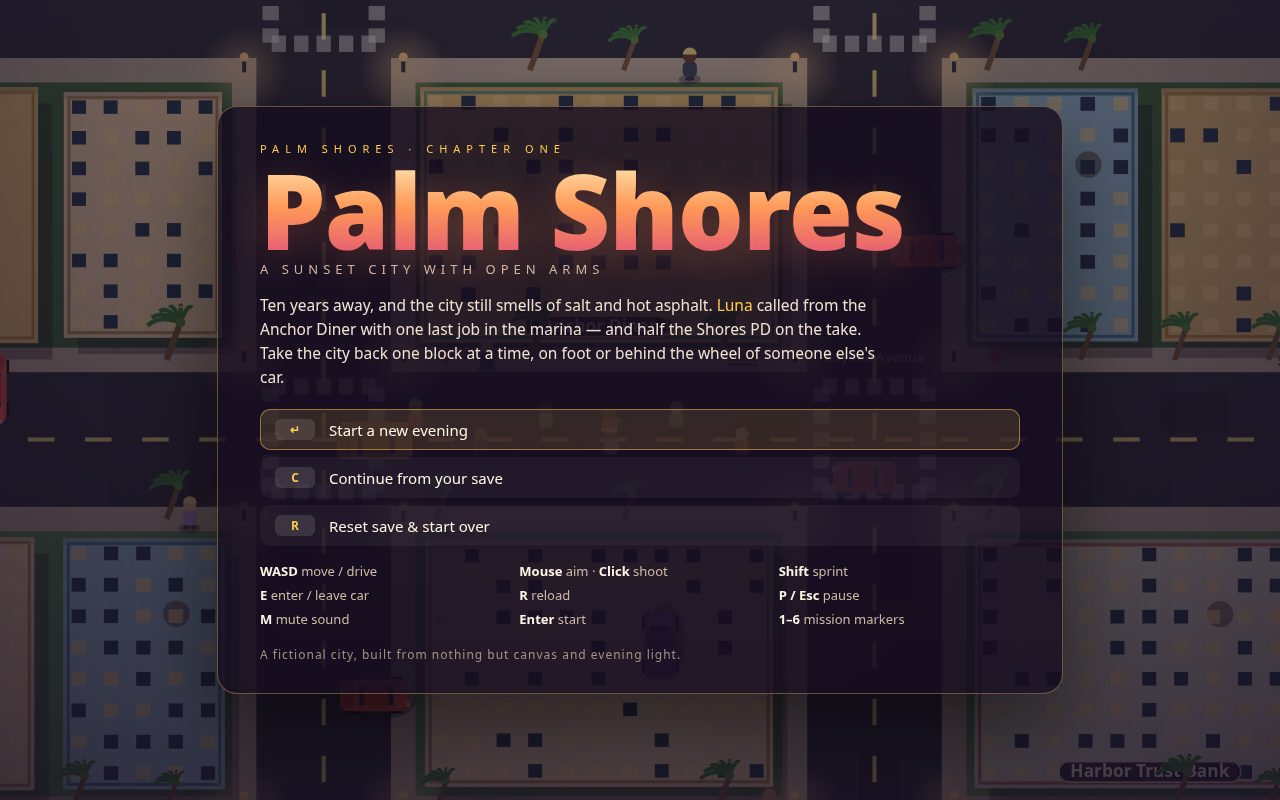
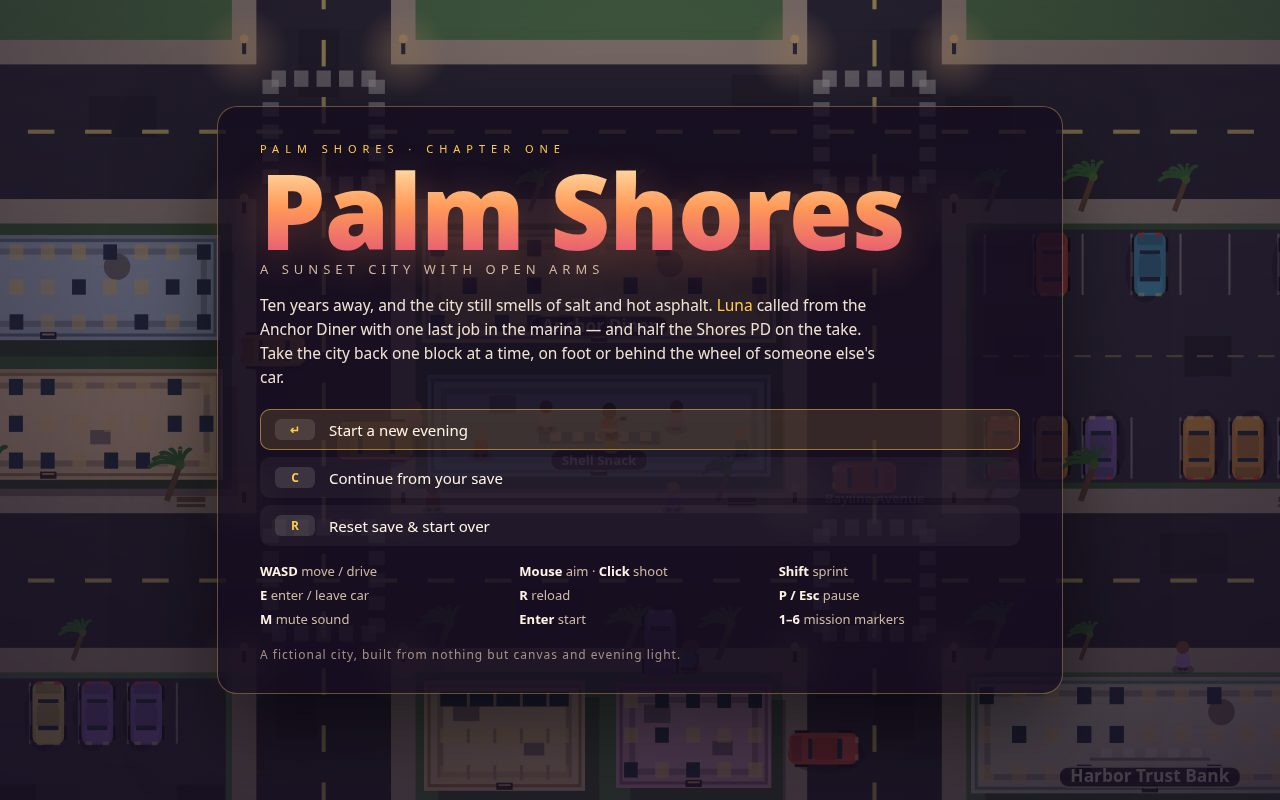
Final polish: cover camera reframed on the chase, regenerated all four screenshots from the richer build

diff --git a/game/src/shots.js b/game/src/shots.js
@@ -134,7 +134,7 @@ export function stageShot(name, ctx) {
     combat.muzzleHold = true;
 
     camera.x = avenue + 20;
-    camera.y = street + 400;
+    camera.y = street + 335;
     camera.zoom = 0.92;
 
     // A drift trail off the coupe's rear wheels: the car is mid-corner, not parked.
